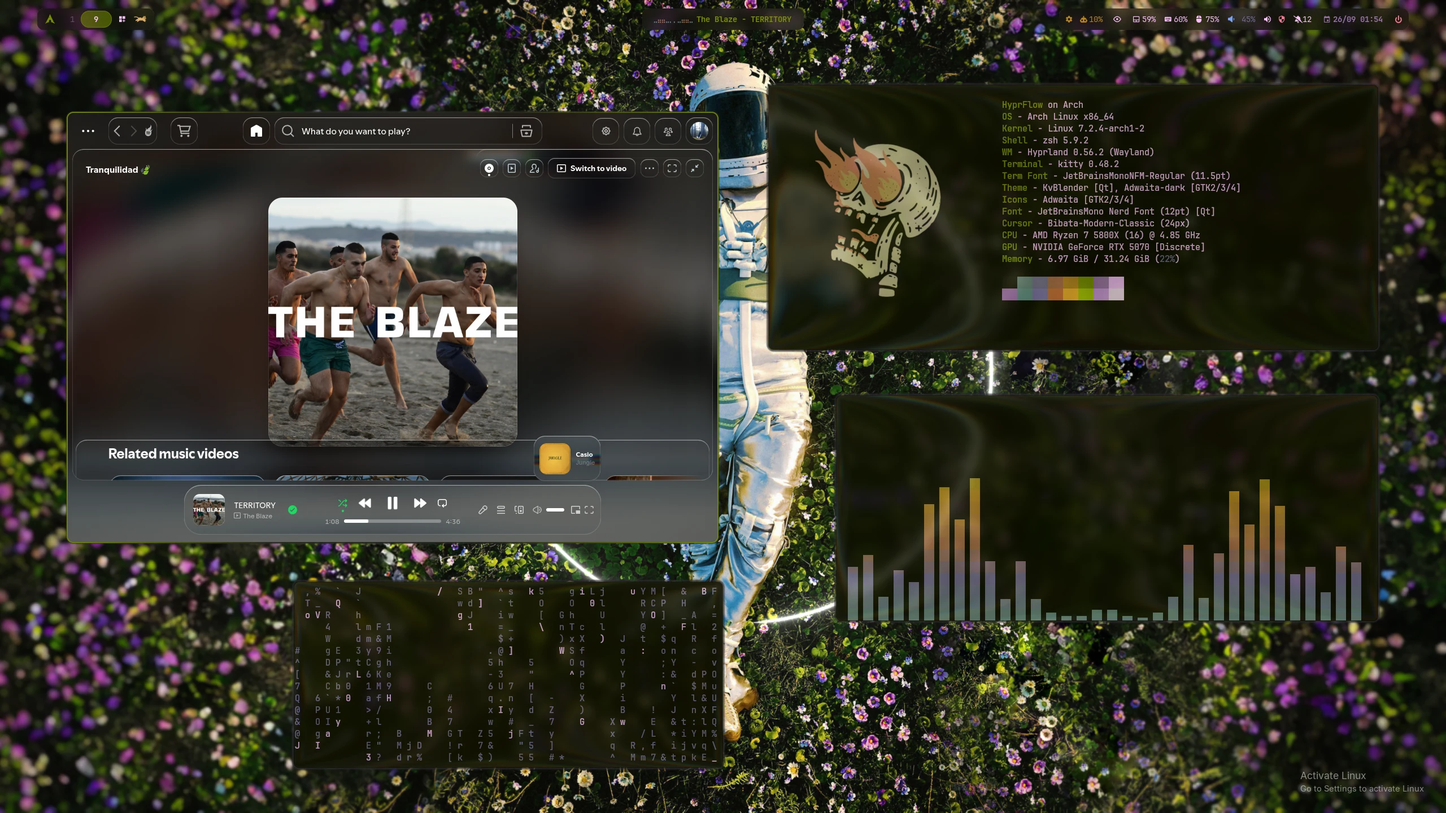
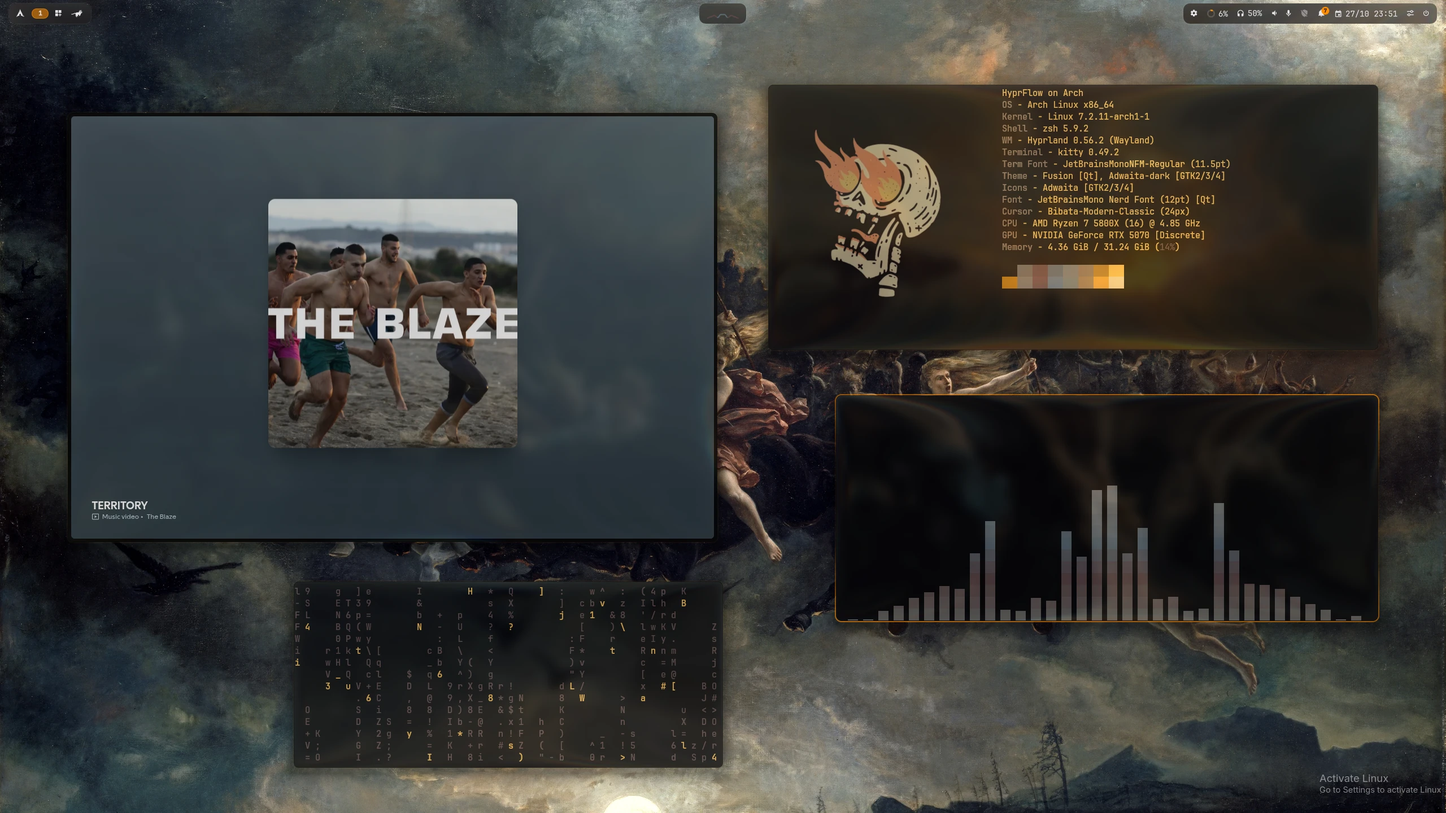
docs: screenshots of the current setup
- desktop, master-pick, floating and rofi retaken with the Quickshell bar
- gallery of the bar panels, Super+K, Super+I, power menu and OSD
- README describes the Quickshell bar and links the older releases

diff --git a/README.md b/README.md
@@ -1,11 +1,19 @@
 # HyprFlow-Arch
 
 Hyprland + Arch Linux desktop config: multi-monitor, dynamic theming from the
-wallpaper, and Waybar modules for peripheral batteries and system status.
+wallpaper, and a Quickshell bar and panels for peripheral batteries and system
+status.
 
 ![Desktop](assets/screenshots/desktop.webp)
 ![Master layout with master-pick](assets/screenshots/master-pick.webp)
 ![Floating windows](assets/screenshots/floating.webp)
+
+| | |
+|---|---|
+| ![Media panel](assets/screenshots/bar-media.webp) | ![Sound panel](assets/screenshots/bar-sound.webp) |
+| ![Batteries panel](assets/screenshots/bar-batteries.webp) | ![Calendar](assets/screenshots/bar-calendar.webp) |
+| ![Quick actions (Super+K)](assets/screenshots/quick-actions.webp) | ![Keybind guide (Super+I)](assets/screenshots/key-guide.webp) |
+| ![Power menu](assets/screenshots/power-menu.webp) | ![Volume OSD](assets/screenshots/osd.webp) |
 
 ## Quick start
 
@@ -192,4 +200,10 @@ Once it runs, for changing things or looking them up:
 ## Older versions
 
 The Hyprland config here is Lua, the format since Hyprland 0.55 (`.conf`/hyprlang
-is deprecated). The last `.conf` version is tagged `pre-lua-migration`.
+is deprecated). The last `.conf` version is the
+[pre-lua-migration](https://github.com/AlejandroMinor/HyprFlow-Arch/releases/tag/pre-lua-migration)
+release.
+
+The bar and menus are Quickshell; the last version with Waybar and rofi menus is the
+[Waybar and rofi edition](https://github.com/AlejandroMinor/HyprFlow-Arch/releases/tag/pre-quickshell-migration)
+release.
